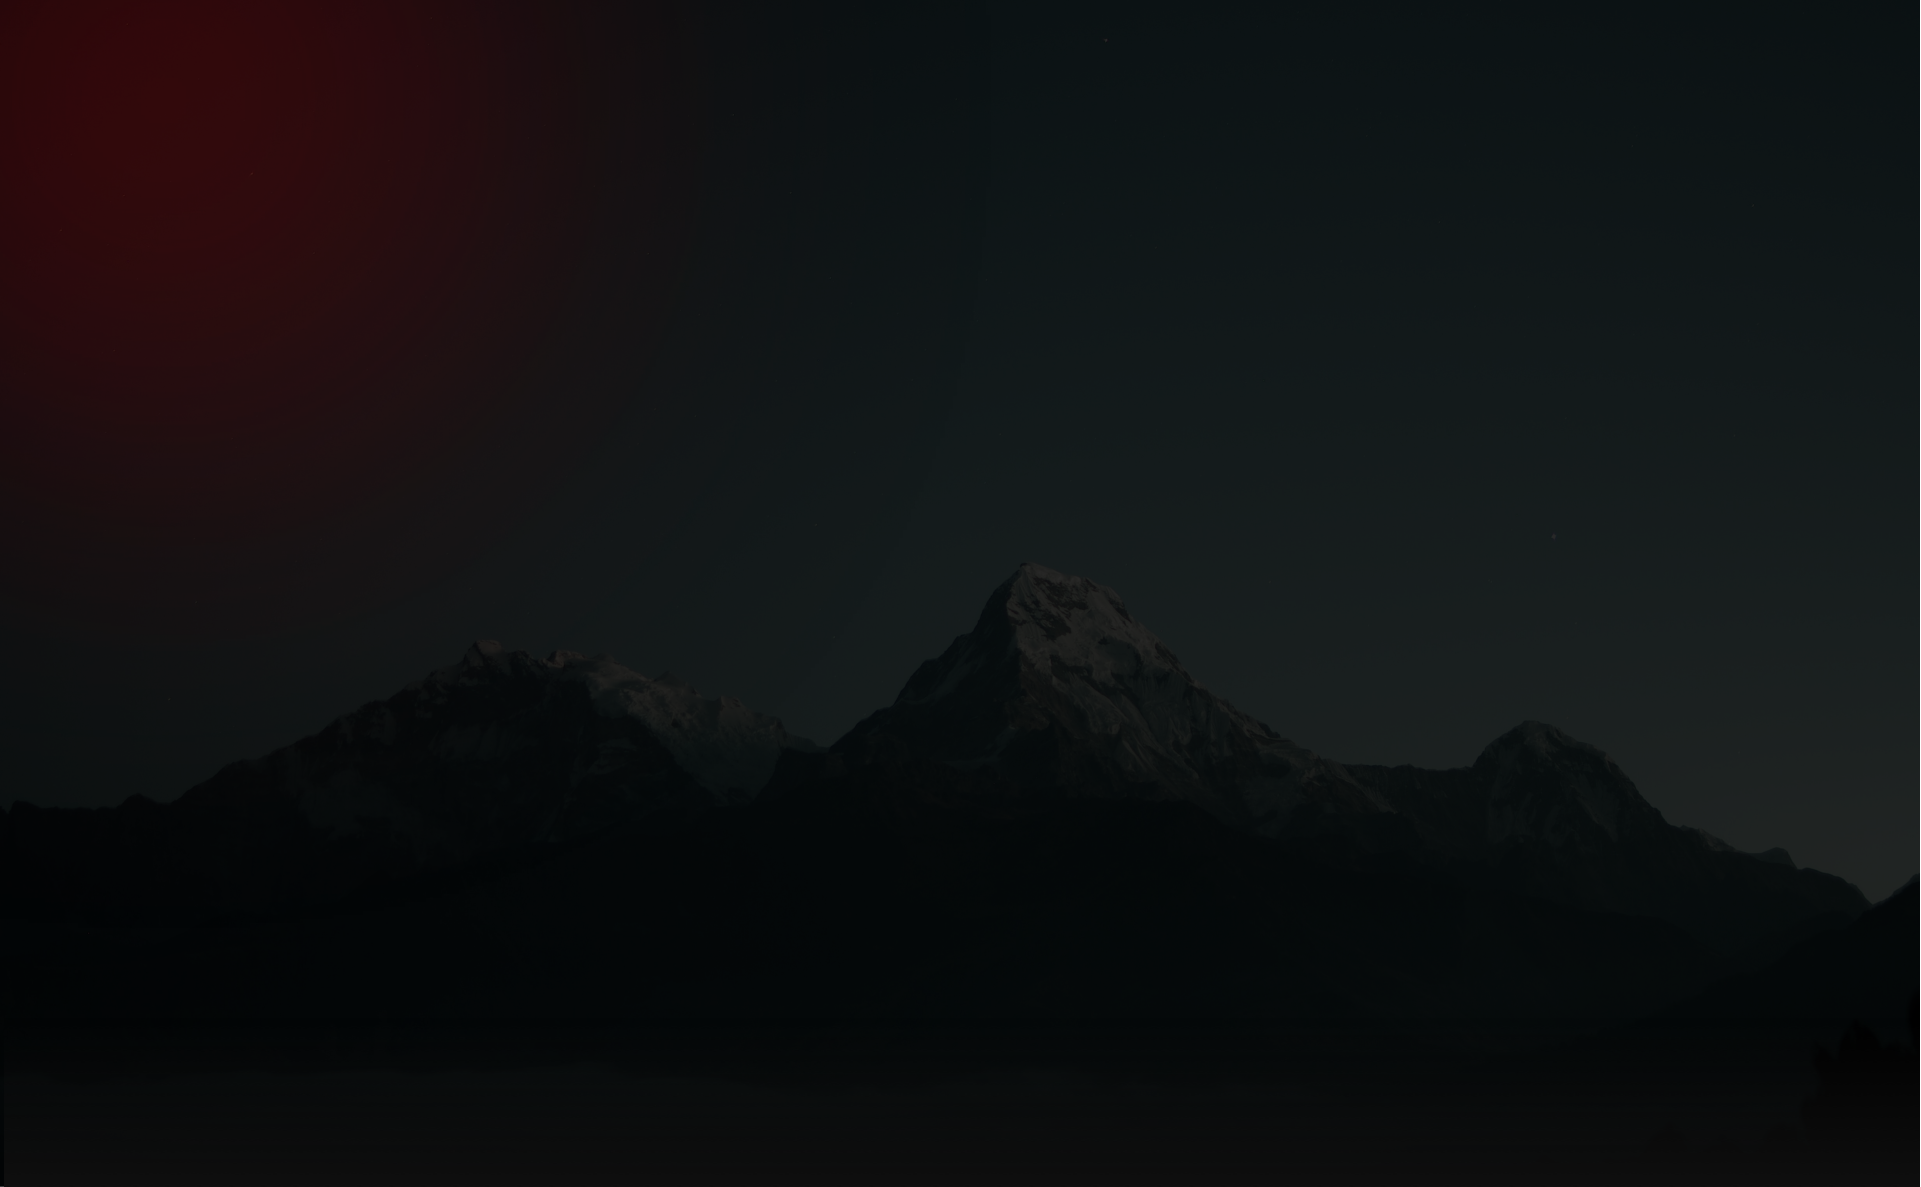
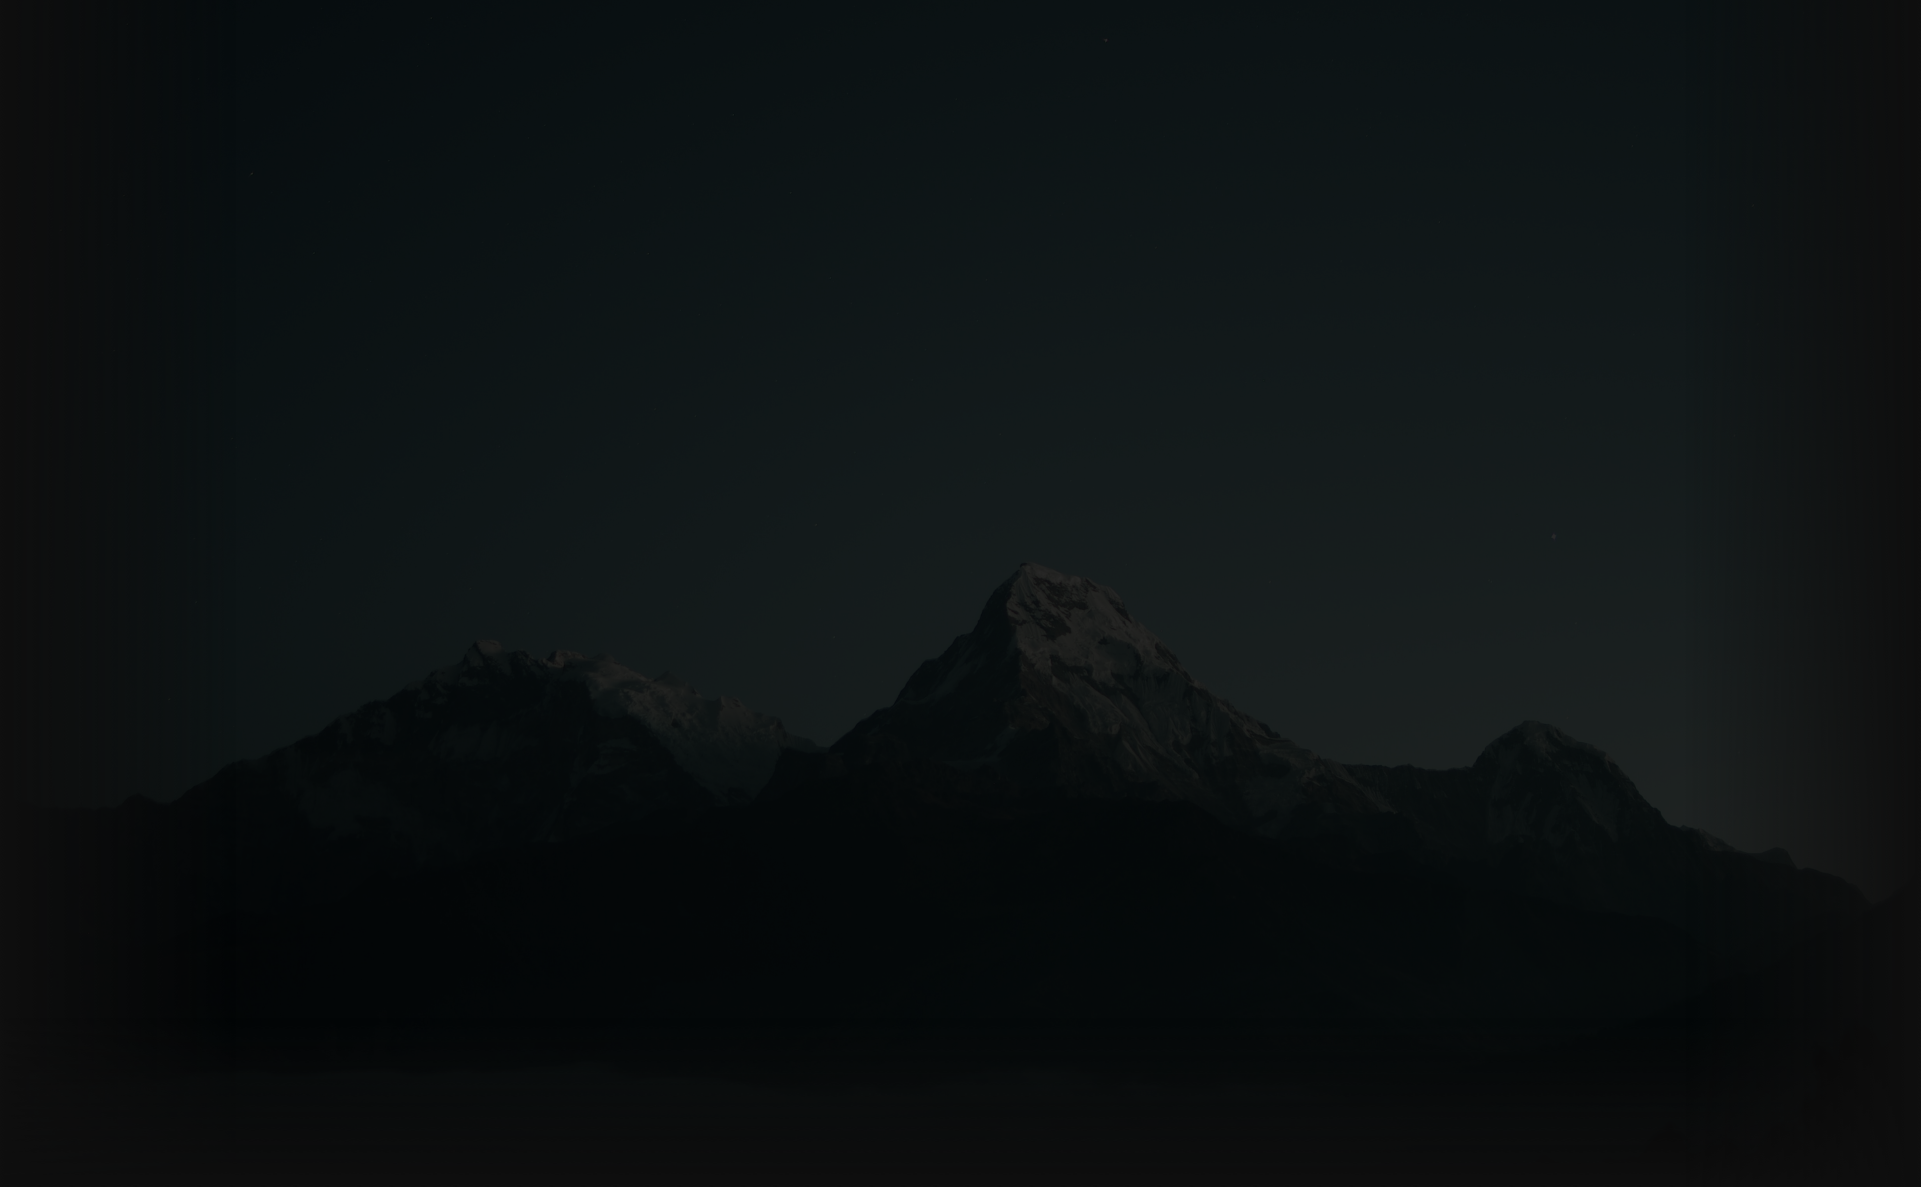
fix-1

Changed region(s): [[0.0, 0.0, 0.2499, 0.3741], [0.9995, 0.0, 1.0, 1.0]]

diff --git a/src/layouts/components/home/Entrance.js b/src/layouts/components/home/Entrance.js
@@ -66,7 +66,7 @@ export default function Entrance({ text, handleClick, handleIconClick }) {
           height={118}
           className="h-[63.4%] w-auto"
         />
-        <Image alt="trading" src="/images/home/logo_ic_Trading.svg" width={18} height={18} className="absolute w-[18px] h-[18px] top-2 left-2" />
+        <Image alt="trading" src="/images/home/logo_ic_marketplace.svg" width={18} height={18} className="absolute w-[18px] h-[18px] top-2 left-2" />
       </Link>
 
       <Link
@@ -87,7 +87,7 @@ export default function Entrance({ text, handleClick, handleIconClick }) {
       {/*TP Wallet*/}
       <div className="group site-link md:site-link-other relative">
         <Image alt="trading" src="/images/home/logo_ic_purse.svg" width={18} height={18} className="absolute w-[18px] h-[18px] top-2 left-2" />
-        <div className="flex items-center justify-center w-full h-full md:group-hover:-translate-y-full transition-transform duration-500 ease-out" onClick={()=>handleIconClick("TP")}>
+        <div className="flex items-center justify-center w-full h-full opacity-100 md:group-hover:opacity-0 transition-all duration-150 ease-linear" onClick={()=>handleIconClick("TP")}>
           <Image
             alt="TP Wallet"
             src="/images/home/top_card_logo_9_1.png"
@@ -117,7 +117,7 @@ export default function Entrance({ text, handleClick, handleIconClick }) {
       {/*OKX Wallet*/}
       <div className="group site-link md:site-link-other relative">
       <Image alt="trading" src="/images/home/logo_ic_purse.svg" width={18} height={18} className="absolute w-[18px] h-[18px] top-2 left-2" />
-        <div className="flex items-center justify-center w-full h-full md:group-hover:-translate-y-full transition-transform duration-500 ease-out" onClick={()=>handleIconClick("OKX")}>
+        <div className="flex items-center justify-center w-full h-full opacity-100 md:group-hover:opacity-0 transition-all duration-150 ease-linear" onClick={()=>handleIconClick("OKX")}>
           <Image
             alt="OKX Wallet"
             src="/images/home/top_card_logo_8_1.png"
@@ -147,7 +147,7 @@ export default function Entrance({ text, handleClick, handleIconClick }) {
       {/*Metamask Wallet*/}
       <div className="group site-link md:site-link-other relative">
       <Image alt="trading" src="/images/home/logo_ic_purse.svg" width={18} height={18} className="absolute w-[18px] h-[18px] top-2 left-2" />
-        <div className="flex items-center justify-center w-full h-full md:group-hover:-translate-y-full transition-transform duration-500 ease-out"  onClick={()=>handleIconClick("Metamask")}>
+        <div className="flex items-center justify-center w-full h-full opacity-100 md:group-hover:opacity-0 transition-all duration-150 ease-linear"  onClick={()=>handleIconClick("Metamask")}>
           <Image
             alt="Metamask Wallet"
             src="/images/home/top_card_logo_10.png"

diff --git a/src/layouts/partials/Header.js b/src/layouts/partials/Header.js
@@ -85,7 +85,7 @@ const Header = () => {
                         <path d="M9.293 12.95l.707.707L15.657 8l-1.414-1.414L10 10.828 5.757 6.586 4.343 8z" />
                       </svg>
                     </span>
-                    <ul className="nav-dropdown-list hidden max-h-0 w-[220px] mx-auto overflow-hidden border border-border-secondary py-0 transition-all duration-500 group-hover:block group-hover:max-h-[246px] group-hover:py-1 md:invisible md:absolute md:left-1/2 md:block md:w-auto md:-translate-x-1/2 md:group-hover:visible md:group-hover:opacity-100">
+                    <ul className="nav-dropdown-list hidden max-h-0 w-[220px] mx-auto overflow-hidden border border-border-secondary bg-opacity-20 py-0 transition-all duration-500 group-hover:block group-hover:max-h-[246px] group-hover:py-1 md:invisible md:absolute md:left-1/2 md:block md:w-auto md:-translate-x-1/2 md:group-hover:visible md:group-hover:opacity-100">
                       {menu.children.map((child, i) => (
                         <li className="nav-dropdown-item" key={`children-${i}`}>
                           <Link

diff --git a/src/pages/index.js b/src/pages/index.js
@@ -181,7 +181,8 @@ export default function Home({ data }) {
       </div>
 
       {/*Top left*/}
-      <div className="absolute w-[50%] md:w-[358px] h-[670px] bg-contain bg-no-repeat bg-[url('/images/home/top_left_line.svg')] -z-10" />
+      <div className="absolute w-[70%] md:w-[869px] h-[1011px] bg-contain bg-no-repeat bg-[url('/images/home/bg_top_left_light.png')] -z-10" />
+      <div className="absolute w-[70%] md:w-[358px] h-[670px] bg-contain bg-no-repeat bg-[url('/images/home/top_left_line.svg')] -z-10" />
       {/*Right light*/}
       <div className="right-light absolute w-[80%] md:w-[1100px] h-[925px] md:h-[1658px] top-[650px] md:top-[400px] right-0 bg-contain bg-center bg-no-repeat bg-[url('/images/home/bg_right_light.svg')] md:bg-[url('/images/home/md/bg_right_light.svg')] opacity-70 -z-10" />
       {/*Left line*/}
